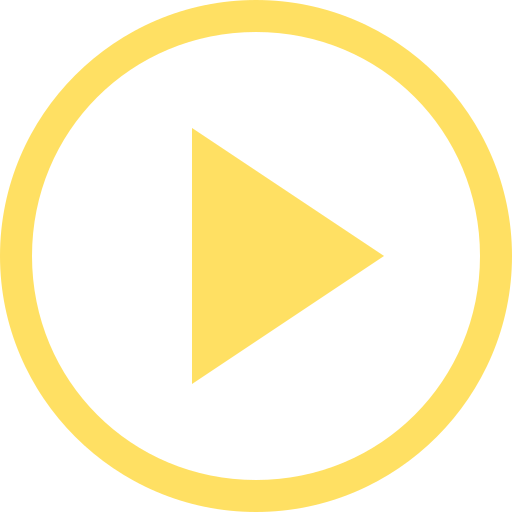
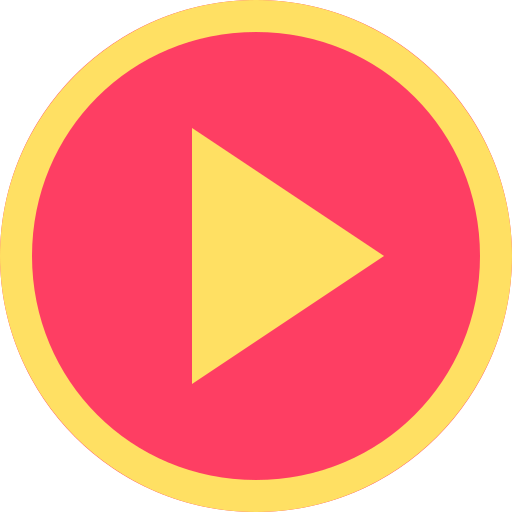
update_graphics

diff --git a/src/create.js b/src/create.js
@@ -20,7 +20,7 @@ f.create_game_first_screen = () => {
 	op.title_game={
 		image: "title_game",
 		x: w2,
-		y: -h,
+		y: h*.2,
 		a: 1,
 		flag: true,
 		g: game,
@@ -28,19 +28,20 @@ f.create_game_first_screen = () => {
 
 	o.title_game = new _obj(op.title_game)
 
+	o.title_game.angle =-15
 
 	//in ap config
 	ap.title_game={
 		e: Phaser.Easing.Bounce.Out,
 		o: o.title_game,
-		i: 0, //number repeat
-		//y: true, //yoyo
+		i: -1, //number repeat
+		y: true, //yoyo
 		//a: 0, // alpha
-		t: 600, //time
+		t: 1200, //time
 		d: 400, // delay
-		//r: 45, //rotation
-		dx: w2, //distance
-		dy: h*.2+20,
+		r: 15, //rotation
+		//dx: w2, //distance
+		//dy: h*.2+20,
 		//sx:1, //scale
 		//sy:1,
 	}
@@ -52,7 +53,7 @@ f.create_game_first_screen = () => {
 	o.shadow_roll_p = {
 		image: "shadow_roll_bondissant",
 		x: w2,
-		y: h*.85,
+		y: h*.91,
 		a: 1,
 		flag: true,
 		g: game,
@@ -116,6 +117,20 @@ f.create_game_first_screen = () => {
 
 	//a.roll.onComplete.add(()=>{_a(a.roll_next)},this)
 
+//in op config
+op.background_button_play={
+image: "background_button_play",
+x: w2,
+y: h2,
+a: 1,
+flag: true,
+g: game,
+}
+
+o.background_button_play = new _obj(op.background_button_play)
+
+
+
 	o.button_play_p={
 		g:game,
 		callback: ()=>{game.state.start("game_main"),clic.play()},
@@ -132,13 +147,13 @@ f.create_game_first_screen = () => {
 		y:h2*1.40,
 	}
 	o.button_rank = new _b(o.button_rank_p)
-	o.button_play.scale.x=.95
-	o.button_play.scale.y=1.05
+	//o.button_play.scale.x=.95
+	//o.button_play.scale.y=1.05
 
 
 	//in ap config
 	ap.button_play={
-		o: o.button_play,
+		o: o.background_button_play,
 		e: Phaser.Easing.Linear.None,
 		i: -1, //number repeat
 		y: true, //yoyo
@@ -148,8 +163,8 @@ f.create_game_first_screen = () => {
 		//r: 45, //rotation
 		//dx:100, //distance
 		//dy:200,
-		sx:1.05, //scale
-		sy:.95,
+		sx:1.2, //scale
+		sy:1.2,
 	}
 	_a(ap.button_play)	
 }
@@ -194,7 +209,8 @@ f.create_rank=()=>{
 
 
 f.create_main = () => {
-	f.start_config_main()
+	//f.start_config_main()
+	co(d.debug,"debug")
 
 	//pour reseter les drapeaux au lancement du jeu
 	flag.heart =false
@@ -632,17 +648,7 @@ f.create_main = () => {
 		//dyo: 30, //delay yoyo
 		//i: 0,
 	}
-	o.searching_opponent_p = {
-		image: "searching_opponent",
-		x: 0,
-		y: 0,
-		//a: 0,
-		flag: true,
-		g: game,
-		anchorx:0,
-		anchory:0,
 
-	}
 	o.circle_search_opponent_p = {
 		image: "circle_search_opponent",
 		x: w2*.5,
@@ -659,6 +665,8 @@ f.create_main = () => {
 		o.searching_opponent[i].anchor.y = 0  
 		o.searching_opponent[i].angle = i*45  
 	}
+
+
 	o.searching_opponent_tw=[]
 	let ts=200
 	let ds=200
@@ -677,12 +685,22 @@ f.create_main = () => {
 	}
 	loop(f.start_timer_search_opponent,ts*2+ds+7*rs,10)
 
-	o.searching_opponent.alpha = 0
 
-	o.searching_opponent.number = random(0, 2)
+	o.searching_opponent.number = random(0, 5)
 
-	o.searching_opponent_tw = {
-		o: o.searching_opponent, //object
+	o.text_searching_opponent_p = {
+		image: "searching_opponent",
+		x: w2*.5,
+		y: h*.21,
+		a: 0,
+		flag: true,
+		g: game,
+
+	}
+	o.text_searching_opponent= new _obj(o.text_searching_opponent_p)
+
+	o.text_searching_opponent_tw = {
+		o: o.text_searching_opponent, //object
 		//t: 500t.searching_opponent, //time
 		t: t.searching_opponent,
 		d: 0, //delay
@@ -694,9 +712,11 @@ f.create_main = () => {
 		//dx :400, //displacementx
 		//dy :200, //displacementy 
 		y: true, //yoyo,
-		dyo: t.searching_opponent, //delay yoyo
+		//dyo: t.searching_opponent, //delay yoyo
 		i: o.searching_opponent.number,
 	}
+	_a(o.text_searching_opponent_tw)
+
 	o.pre_sensor = new _obj(o.pre_sensor_p)
 
 	let difficulty = random(0,500)
@@ -994,5 +1014,17 @@ f.create_main = () => {
 		d:500,
 		dx:-w,
 	}
+
+tp.debug={
+		g: game,
+		x: w2,
+		y: 50,
+		message: "ready",
+		taille: 40,
+		police: 'police',
+		v: false,
+
+}
+
 	t.debug = new _t(tp.debug)
 }

diff --git a/src/start.js b/src/start.js
@@ -32,14 +32,6 @@ f.start_game = () => {
 
 	f.convert_events_time()
 
-
-	// animation pour chercher l'enemi
-	f.start_searching_opponent = () => {
-		//game.add.tween(o.searching_opponent).to({ alpha: 1 }, t.searching_opponent, Phaser.Easing.Linear.None, true,0,2);
-		_tw(o.searching_opponent_tw,0)
-		//wait(()=>{tw[0].pause()},800)
-	}
-
 	//animation pour faire apparaitre le nom de l'enemi
 	f.start_cloud = () => {
 		for (var i = 0; i < o.searching_opponent.length; i++){
@@ -137,7 +129,6 @@ f.start_game = () => {
 	tw_click=game.add.tween(o.click.scale).to({ x: .4, y :.4 }, 200, Phaser.Easing.Linear.None, true, 0, -1, true);
 
 	//appel des differents events avec les time_converted spécifique
-	f.start_searching_opponent()
 	wait(f.start_cloud,ev.tc[0])
 	wait(f.start_timer,ev.tc[1])
 

diff --git a/src/object.js b/src/object.js
@@ -30,12 +30,17 @@ _obj = function (p) {
 			//			co(p.g.heigth,"here")
 		}
 	}
-
 	this.inputEnabled=true
-	d.debug && this.input.enableDrag(true)
-	d.dedug && this.input.enableSnap(20,20,true,true)
-	d.debug && this.events.onDragStop.add(()=>{f.debug_pos(this)},this)
-	d.debug && this.events.onDragStart.add(()=>{f.debug_pos(this)},this)	
+	co("ca")
+	if(d.debug == true){
+	this.input.enableDrag(true)
+	this.input.enableSnap(20,20,true,true)
+	this.events.onDragStop.add(()=>{f.debug_pos(this)},this)
+	this.events.onDragStart.add(()=>{f.debug_pos(this)},this)	
+	
+	}
+		
+
 	p.g.add.existing(this)
 }
 

diff --git a/src/f.js b/src/f.js
@@ -389,12 +389,12 @@ f.arrondir_2_decimales=(num,division)=>{
 //affiche les infos de positions lorsqu'on déplace un objet
 // seulement si drapeau debug est en true
 f.debug_pos=(obj)=>{
-	if (d.debug) {
+	//if (d.debug) {
 		t.debug.visible =true
 		let transformx = f.arrondir_2_decimales(obj.x,w)
 		let transformy = f.arrondir_2_decimales(obj.y,h)
 		t.debug.text="w*" + transformx + "  " + "h*" + transformy
-	}
+	//}
 }
 
 //anime le mask permettant de voir si la fin est proche suivant un distance

diff --git a/src/main.js b/src/main.js
@@ -69,6 +69,7 @@ var preloader = {
 		this.game.load.image("button_home", "assets/button_home.png");
 		this.game.load.image("background_start", "assets/background_start.png");
 		this.game.load.image("title_game", "assets/title_game.png");
+		this.game.load.image("background_button_play", "assets/background_button_play.png");
 		//spritesheet
 		//this.game.load.spritesheet("puissance", "assets/puissance.png",75,90);
 		//font bitmapFont

diff --git a/src/parameter.js b/src/parameter.js
@@ -51,7 +51,7 @@ var s = {
 }
 //drapeau
 var d={
-	debug : true, // pour déplacer les objets
+	debug : false, // pour déplacer les objets
 	scroll:{
 		0:false,
 		1:false,
